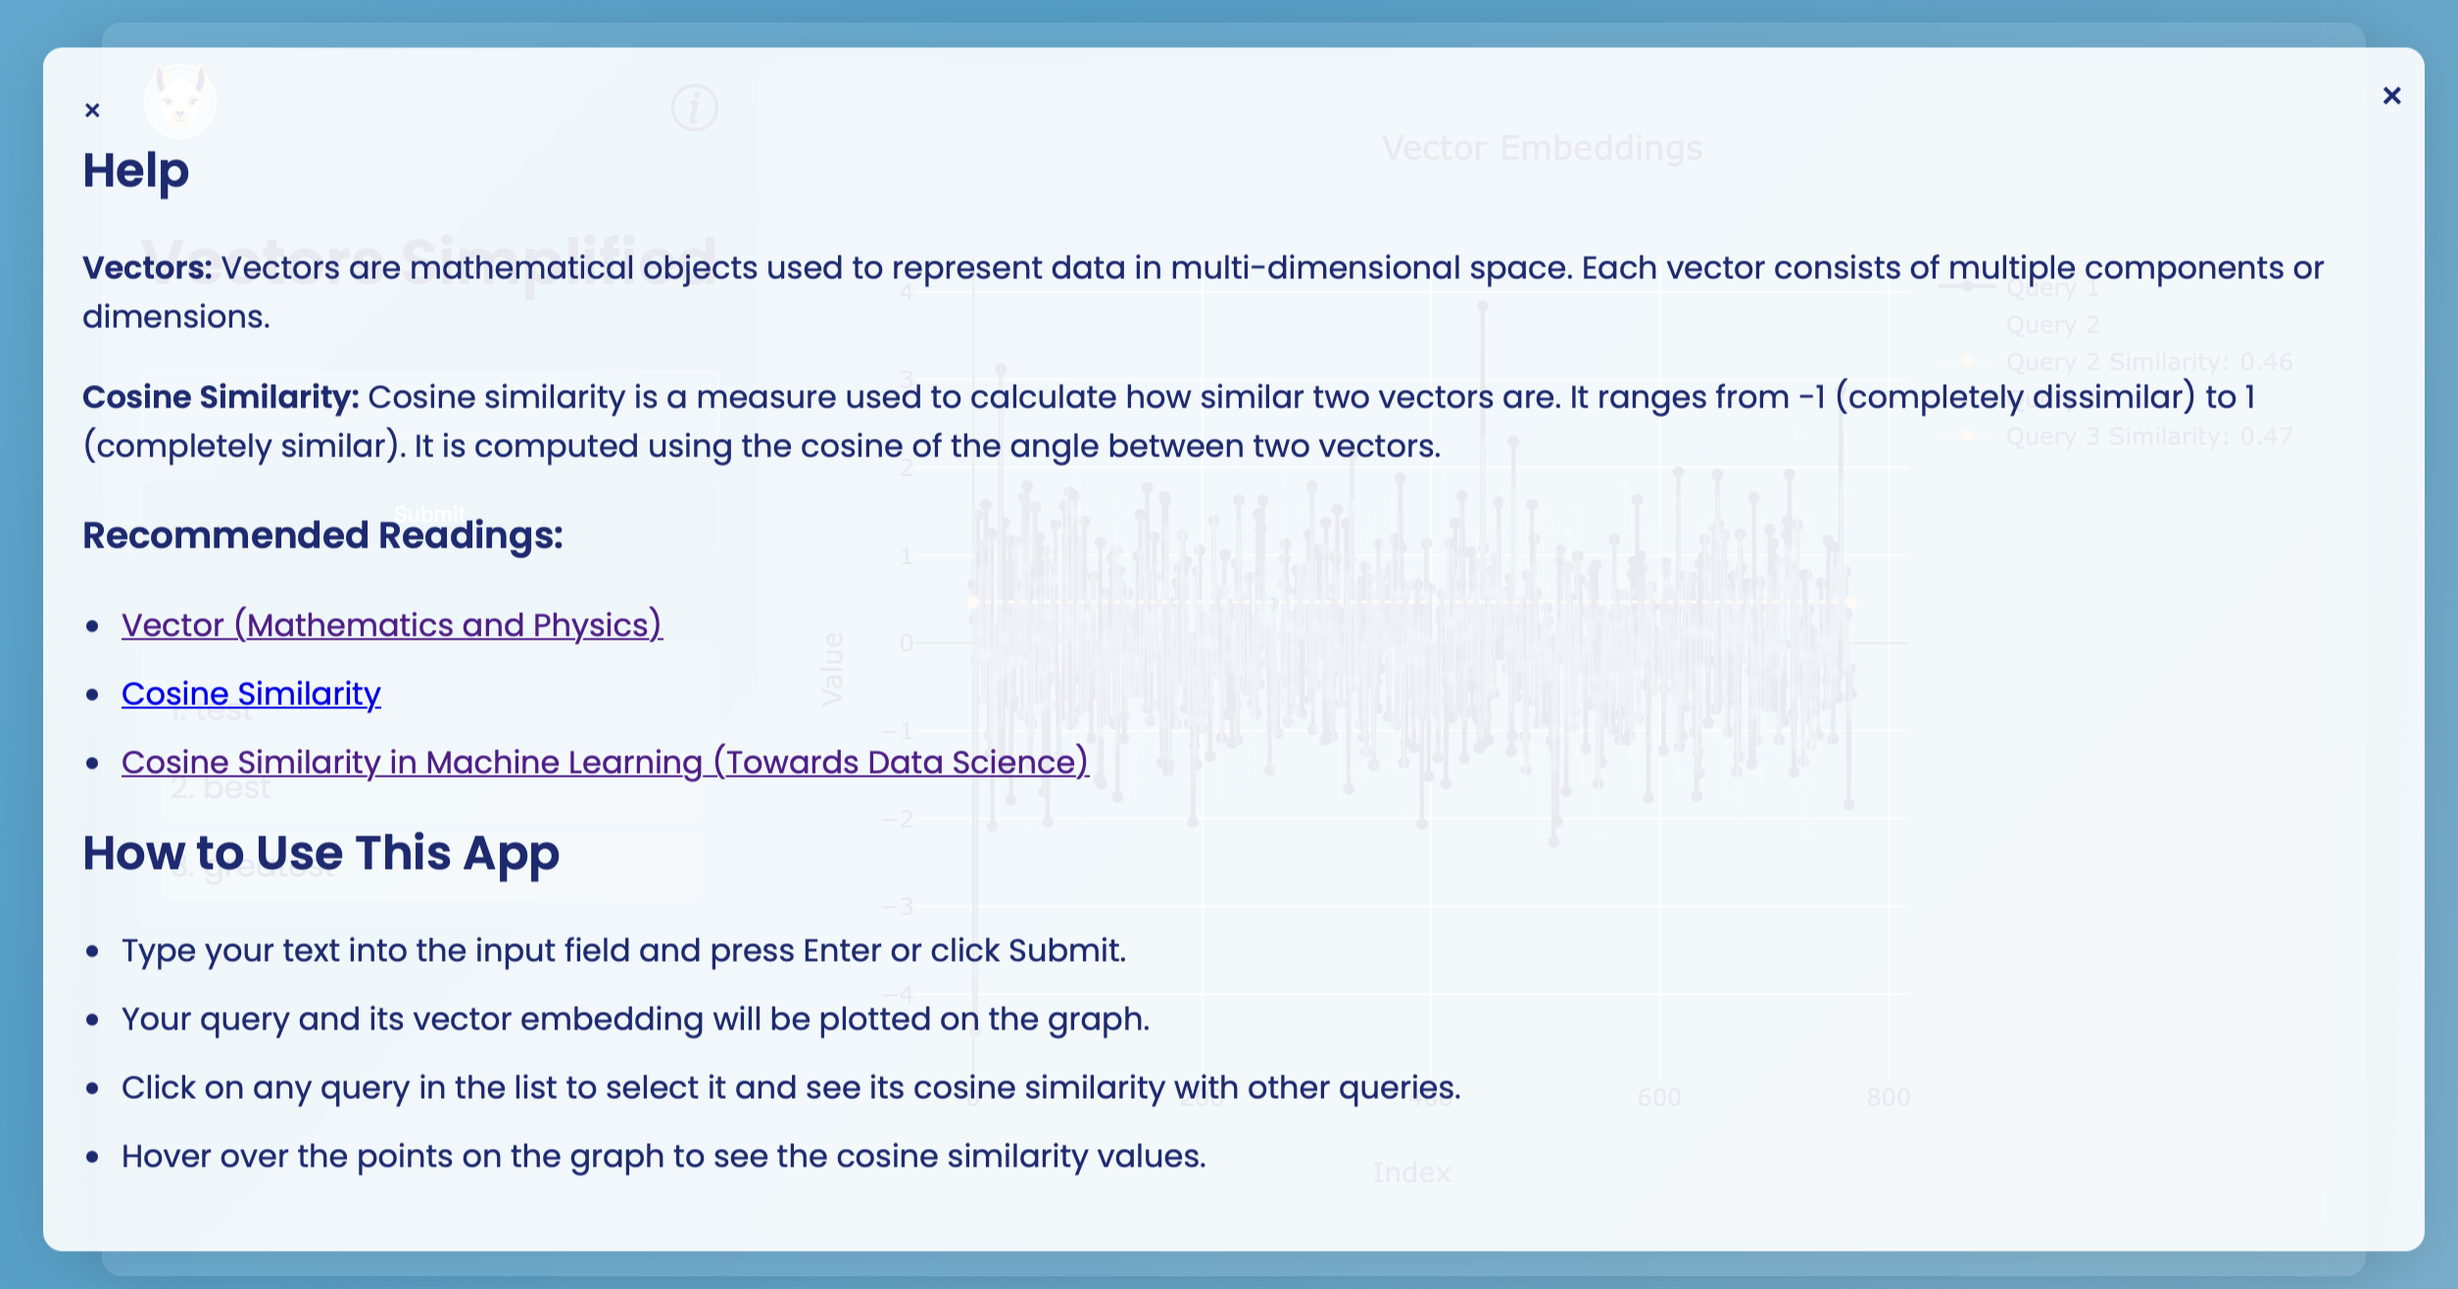
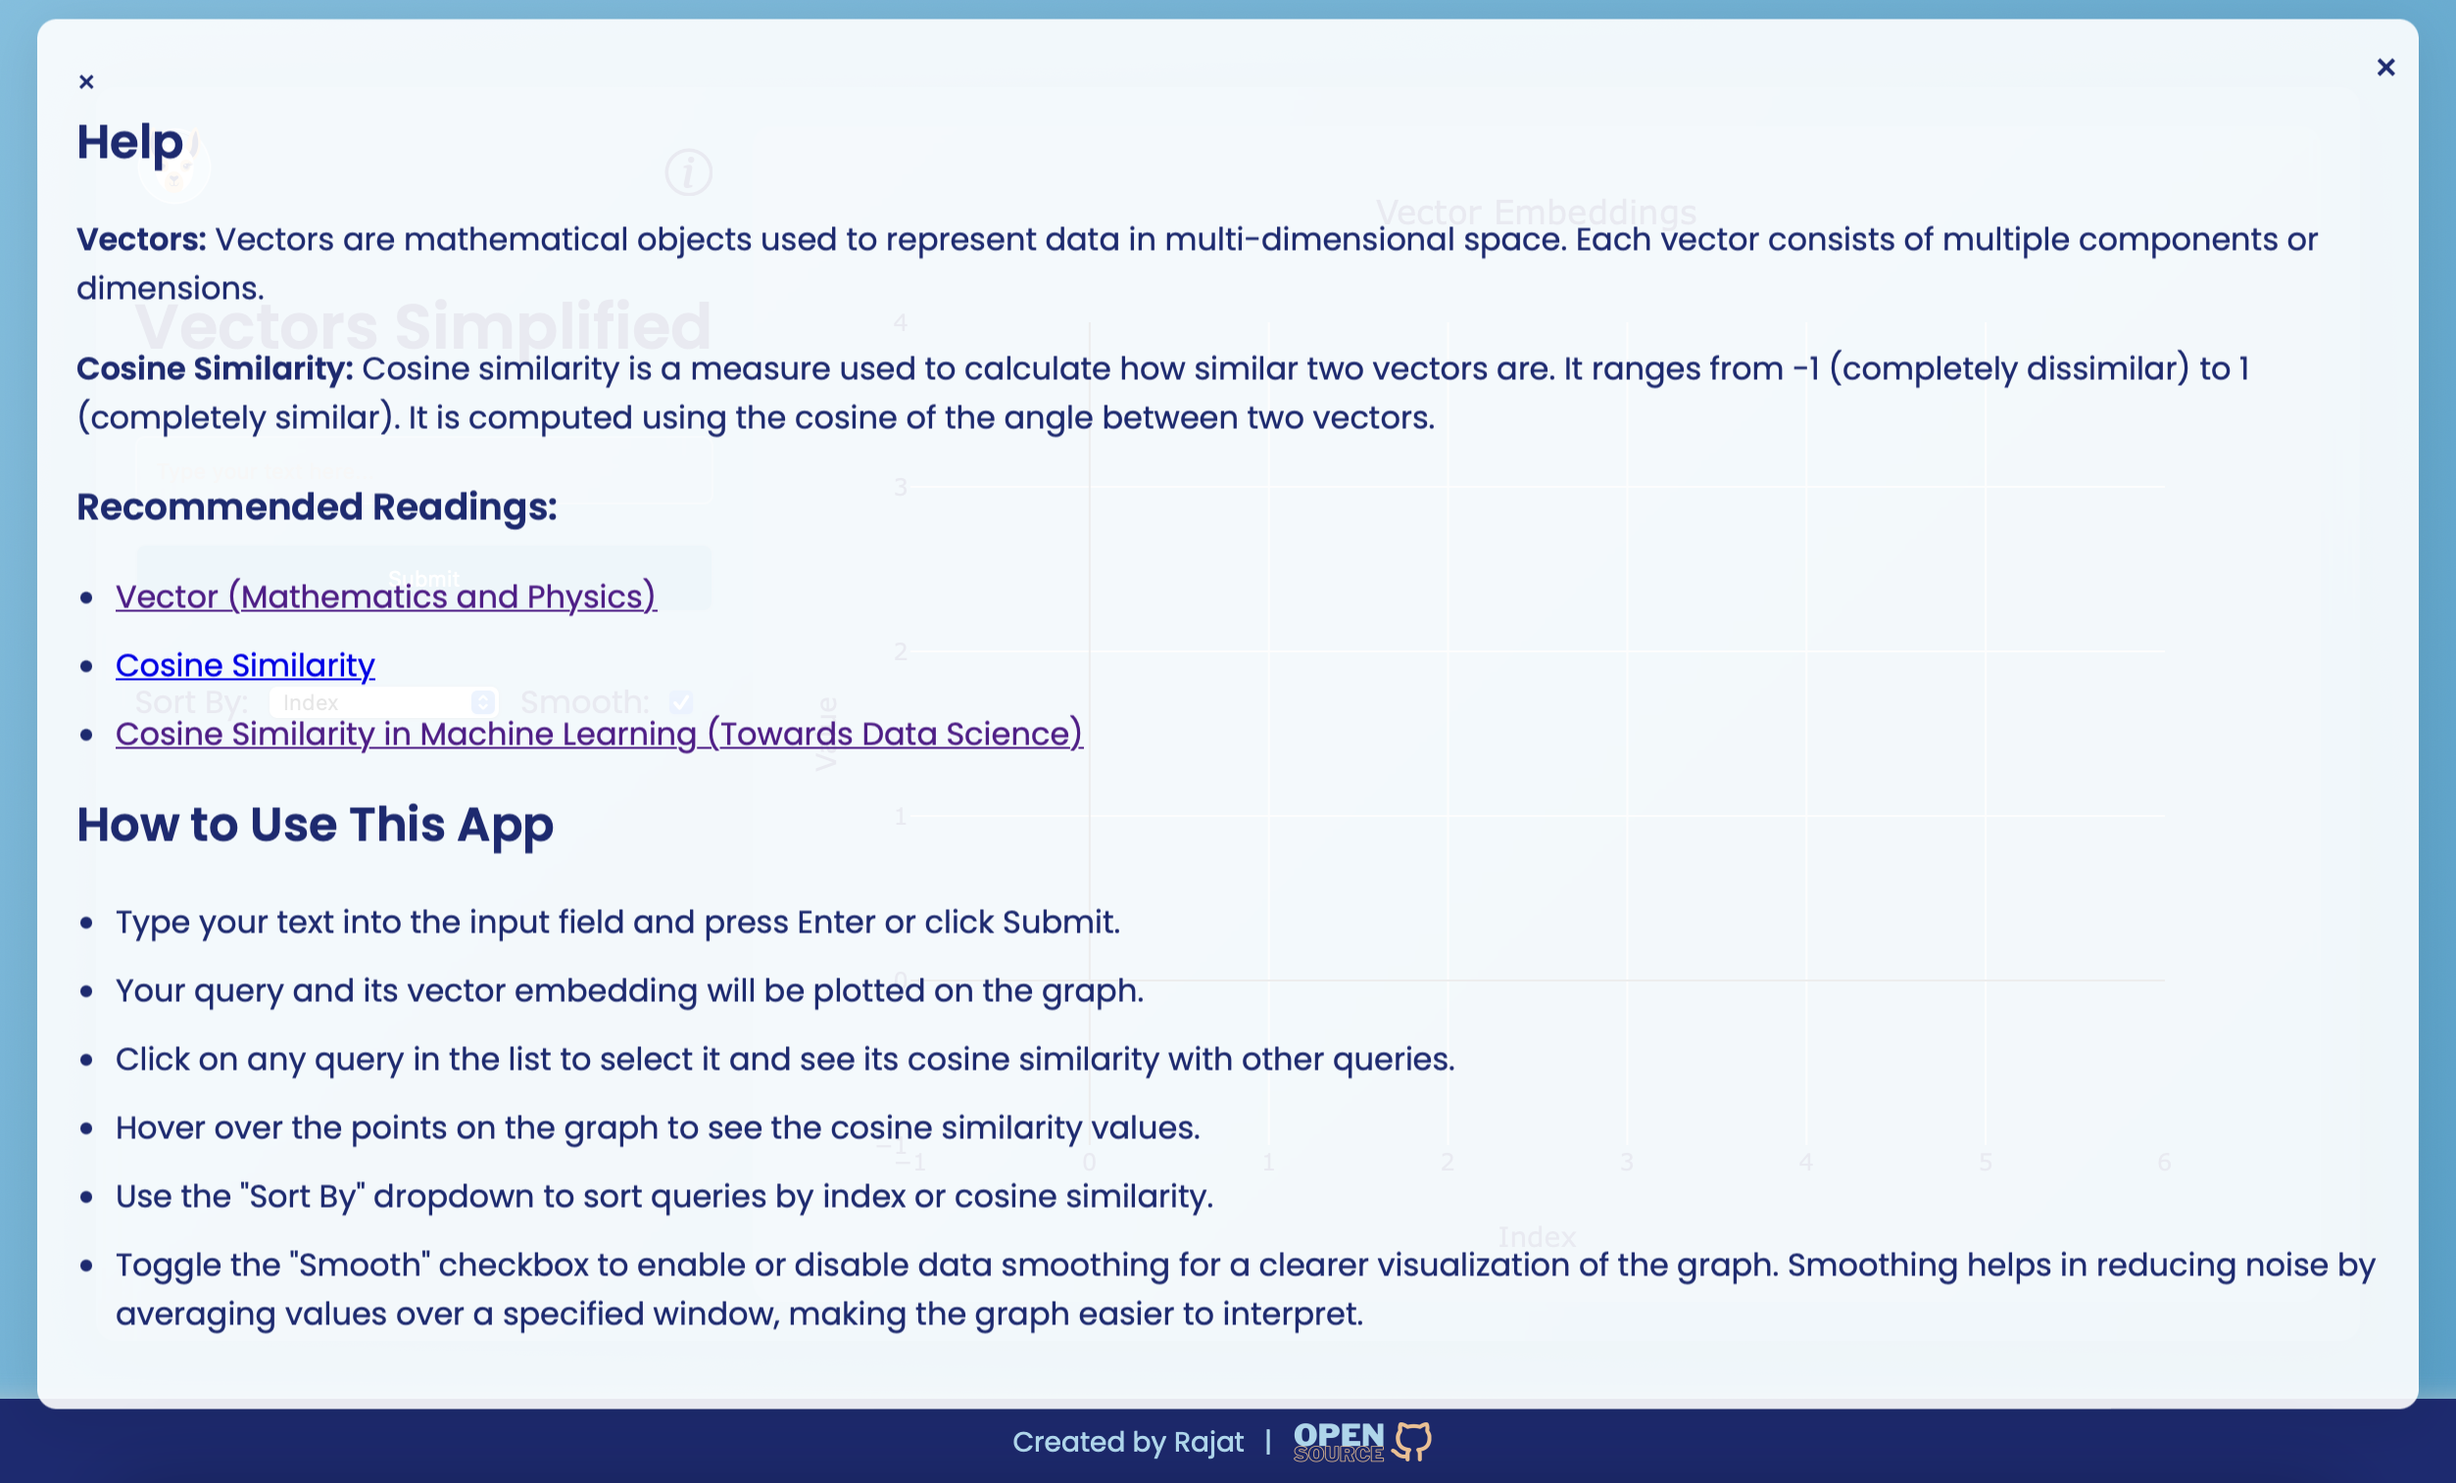
V1.1.0 MAJOR Update: - Smoothen function to visualize the differences between vectors better. - Updated README, cli and screenshots.

Changed region(s): [[0.0, 0.0, 1.0, 1.0]]

diff --git a/index.html b/index.html
@@ -23,12 +23,14 @@
             <input type="text" id="inputText" placeholder="Type your text here..." onkeydown="checkEnter(event)" />
             <button onclick="submitText()" id="submitButton">Submit</button>
             <div id="statusMessage" class="status-message"></div>
-            <div>
+            <div class="options">
                 <label for="sortOptions">Sort By:</label>
                 <select id="sortOptions" onchange="updateQueryList()">
                     <option value="index">Index</option>
                     <option value="similarity">Cosine Similarity</option>
                 </select>
+                <label for="smoothCheckbox">Smooth:</label>
+                <input type="checkbox" id="smoothCheckbox" checked onchange="updatePlot()">
             </div>
             <div id="queryList" class="query-list"></div>
         </div>
@@ -47,13 +49,18 @@
             <span class="close" onclick="toggleHelpPopup()">&times;</span>
             <span class="close-btn" onclick="toggleHelpPopup()">&times;</span>
             <h2>Help</h2>
-            <p><strong>Vectors:</strong> Vectors are mathematical objects used to represent data in multi-dimensional space. Each vector consists of multiple components or dimensions.</p>
-            <p><strong>Cosine Similarity:</strong> Cosine similarity is a measure used to calculate how similar two vectors are. It ranges from -1 (completely dissimilar) to 1 (completely similar). It is computed using the cosine of the angle between two vectors.</p>
+            <p><strong>Vectors:</strong> Vectors are mathematical objects used to represent data in multi-dimensional
+                space. Each vector consists of multiple components or dimensions.</p>
+            <p><strong>Cosine Similarity:</strong> Cosine similarity is a measure used to calculate how similar two
+                vectors are. It ranges from -1 (completely dissimilar) to 1 (completely similar). It is computed using
+                the cosine of the angle between two vectors.</p>
             <h3>Recommended Readings:</h3>
             <ul>
-                <li><a href="https://en.wikipedia.org/wiki/Vector_(mathematics_and_physics)" target="_blank">Vector (Mathematics and Physics)</a></li>
+                <li><a href="https://en.wikipedia.org/wiki/Vector_(mathematics_and_physics)" target="_blank">Vector
+                        (Mathematics and Physics)</a></li>
                 <li><a href="https://en.wikipedia.org/wiki/Cosine_similarity" target="_blank">Cosine Similarity</a></li>
-                <li><a href="https://towardsdatascience.com/cosine-similarity-in-machine-learning-4c78341a5a94" target="_blank">Cosine Similarity in Machine Learning (Towards Data Science)</a></li>
+                <li><a href="https://towardsdatascience.com/cosine-similarity-in-machine-learning-4c78341a5a94"
+                        target="_blank">Cosine Similarity in Machine Learning (Towards Data Science)</a></li>
             </ul>
             <h2>How to Use This App</h2>
             <ul>
@@ -61,6 +68,10 @@
                 <li>Your query and its vector embedding will be plotted on the graph.</li>
                 <li>Click on any query in the list to select it and see its cosine similarity with other queries.</li>
                 <li>Hover over the points on the graph to see the cosine similarity values.</li>
+                <li>Use the "Sort By" dropdown to sort queries by index or cosine similarity.</li>
+                <li>Toggle the "Smooth" checkbox to enable or disable data smoothing for a clearer visualization of the
+                    graph. Smoothing helps in reducing noise by averaging values over a specified window, making the
+                    graph easier to interpret.</li>
             </ul>
         </div>
     </div>

diff --git a/script.js b/script.js
@@ -56,8 +56,9 @@ async function submitText() {
         queries.push({ text: inputText, embedding: result.embedding });
         updateQueryList();
 
-        const { data, layout } = renderPlot(queries, selectedQueryIndex);
-        Plotly.newPlot('plot', data, layout);
+        const { data, layout } = renderPlot(queries, selectedQueryIndex,
+            document.getElementById('smoothCheckbox').checked);
+        Plotly.react('plot', data, layout);
 
         document.getElementById('inputText').value = ''; // Clear input field
     } catch (error) {
@@ -135,13 +136,23 @@ function selectQuery(index) {
     }
     updateQueryList();
 
-    const { data, layout } = renderPlot(queries, selectedQueryIndex);
-    Plotly.newPlot('plot', data, layout);
+    const { data, layout } = renderPlot(queries, selectedQueryIndex,
+        document.getElementById('smoothCheckbox').checked);
+    Plotly.react('plot', data, layout);
+}
+
+function updatePlot() {
+    const smoothCheckbox = document.getElementById('smoothCheckbox').checked;
+
+    const { data, layout } = renderPlot(queries, selectedQueryIndex,
+        smoothCheckbox);
+    Plotly.react('plot', data, layout);
 }
 
 // Initial blank plot
 window.onload = () => {
-    const { data, layout } = renderPlot(queries, selectedQueryIndex);
+    const { data, layout } = renderPlot(queries, selectedQueryIndex,
+        document.getElementById('smoothCheckbox').checked);
     Plotly.newPlot('plot', data, layout);
 
 };

diff --git a/plot.js b/plot.js
@@ -1,8 +1,24 @@
-function renderPlot(queries, selectedQueryIndex) {
+function renderPlot(queries, selectedQueryIndex, smooth) {
+    const smoothData = (data, windowSize) => {
+        const smoothed = [];
+        for (let i = 0; i < data.length; i++) {
+            const start = Math.max(0, i - Math.floor(windowSize / 2));
+            const end = Math.min(data.length, i + Math.floor(windowSize / 2) + 1);
+            const window = data.slice(start, end);
+            const average = window.reduce((sum, val) => sum + val, 0) / window.length;
+            smoothed.push(average);
+        }
+        return smoothed;
+    };
+
+    const windowSize = 10; // Adjust the window size as needed for more or less smoothing
+
     const data = queries.map((query, index) => {
+        const embedding = smooth ? smoothData(query.embedding, windowSize) : query.embedding;
+
         const trace = {
-            x: query.embedding.map((_, idx) => idx),
-            y: query.embedding,
+            x: embedding.map((_, idx) => idx),
+            y: embedding,
             type: 'scatter',
             mode: 'lines+markers',
             name: `Query ${index + 1}`,
@@ -61,7 +77,7 @@ function renderPlot(queries, selectedQueryIndex) {
         }
     };
 
-    return {data, layout};
+    return { data, layout };
 }
 
 function calculateCosineSimilarity(vec1, vec2) {

diff --git a/plot.d.ts b/plot.d.ts
@@ -6,7 +6,7 @@
  * @param selectedQueryIndex - The index of the currently selected query, or -1 if none.
  * @returns An object containing `data` and `layout` for the Plotly plot.
  */
-declare function renderPlot(queries: { text: string; embedding: number[] }[], selectedQueryIndex: number): { data: any[], layout: any };
+declare function renderPlot(queries: { text: string; embedding: number[] }[], selectedQueryIndex: number, smoothData: boolean = false): { data: any[], layout: any };
 
 /**
  * Calculates the cosine similarity between two vectors.

diff --git a/index.ts b/index.ts
@@ -62,7 +62,7 @@ rl.on('SIGINT', () => {
 async function plotAllQueries() {
     if (queries.length === 0) return;
 
-    const { data, layout } = renderPlot(queries, 0);
+    const { data, layout } = renderPlot(queries, 0, process.env.SMOOTH === 'true');
 
     const htmlContent = `
     <!DOCTYPE html>

diff --git a/styles.css b/styles.css
@@ -124,6 +124,13 @@ button:hover {
     font-size: 14px;
 }
 
+.options {
+    display: flex;
+    flex-direction: row;
+    align-items: center;
+    gap: 10px;
+}
+
 .query-list {
     margin-top: 20px;
     overflow-y: auto;

diff --git a/README.md b/README.md
@@ -49,6 +49,34 @@ const similarity = calculateCosineSimilarity(vectorA, vectorB);
 console.log(`Cosine Similarity: ${similarity.toFixed(2)}`); // Output: Cosine Similarity: 0.9746
 ```
 
+## Smoothing Function
+
+When visualizing vector embeddings, especially when they contain a large number of items, the graph can become too clustered and difficult to interpret. To address this, a smoothing function is used.
+
+### Purpose of Smoothing
+
+The smoothing function helps in reducing the noise in the data by averaging the values over a specified window size. This makes the graph more readable and allows for better visualization of the overall trends in the data.
+
+### Implementation of Smoothing
+
+Here's how the smoothing function is implemented in the application:
+
+```javascript
+const smoothData = (data, windowSize) => {
+    const smoothed = [];
+    for (let i = 0; i < data.length; i++) {
+        const start = Math.max(0, i - Math.floor(windowSize / 2));
+        const end = Math.min(data.length, i + Math.floor(windowSize / 2) + 1);
+        const window = data.slice(start, end);
+        const average = window.reduce((sum, val) => sum + val, 0) / window.length;
+        smoothed.push(average);
+    }
+    return smoothed;
+};
+```
+
+The smoothing can be toggled on or off using a checkbox in the UI, providing flexibility to the user.
+
 ## Installation
 
 ### Prerequisites
@@ -95,6 +123,15 @@ console.log(`Cosine Similarity: ${similarity.toFixed(2)}`); // Output: Cosine Si
 
 2. Start typing in the terminal to input text and get vector embeddings. The results and plot will be saved as `embedding_plot.png` in the current directory.
 
+3. env file can be found in the project root directory with default settings
+
+```
+PORT=3000
+EMBEDDINGS_MODEL=nomic-embed-text
+EMBEDDINGS_BASE_URL=http://localhost:11434
+SMOOTH=TRUE
+```
+
 ### UI Usage
 
 ![Help](./assets/popup.png)
@@ -106,14 +143,12 @@ console.log(`Cosine Similarity: ${similarity.toFixed(2)}`); // Output: Cosine Si
 
    This will start the server with the default port 3000.
 
-2. Open index.html.
+2. Open `index.html`.
 
 3. Use the input field to type text and click "Submit" to generate vector embeddings. The results will be displayed on the graph, and you can interact with it to view similarities.
+
+4. **Smoothing Option**: Use the "Smooth" checkbox to toggle smoothing on or off for better visualization of the graph.
 
 ## License
 
 This project is licensed under the [MIT License](LICENSE). See the LICENSE file for more details.
-
----
-
-Feel free to customize any part of this README as needed. This document should provide clear instructions and information about your project, making it easier for users to understand and get started with it.
